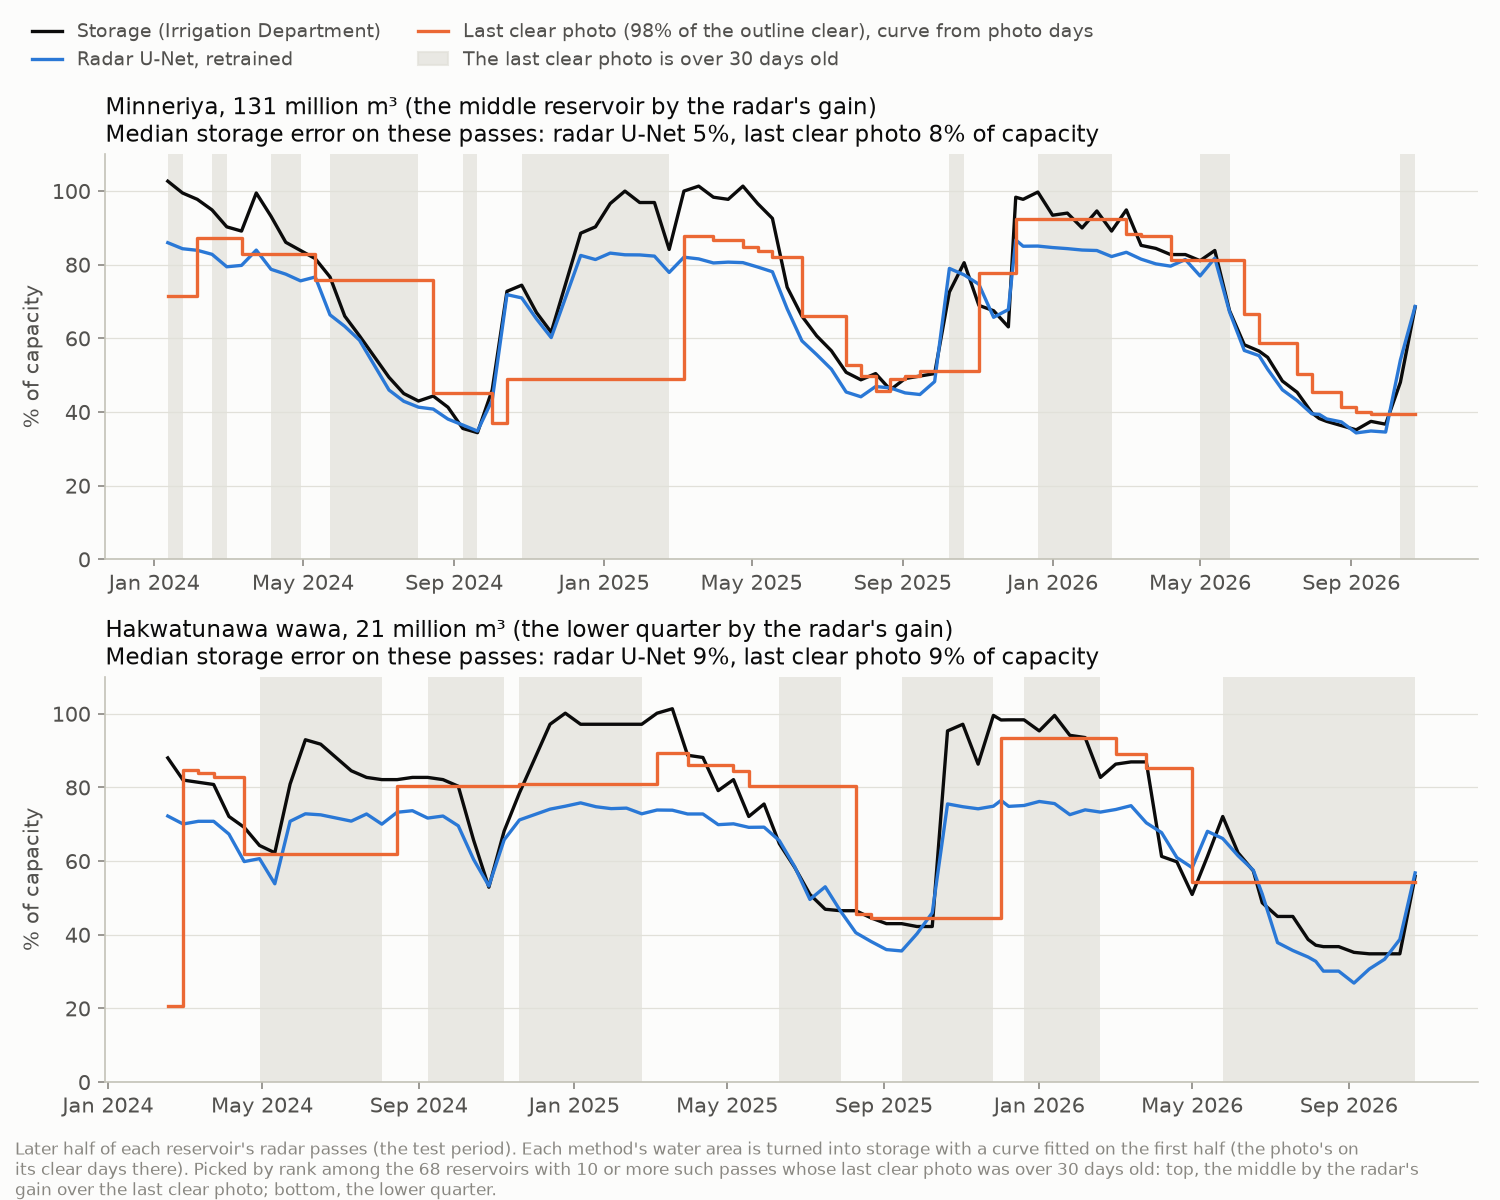
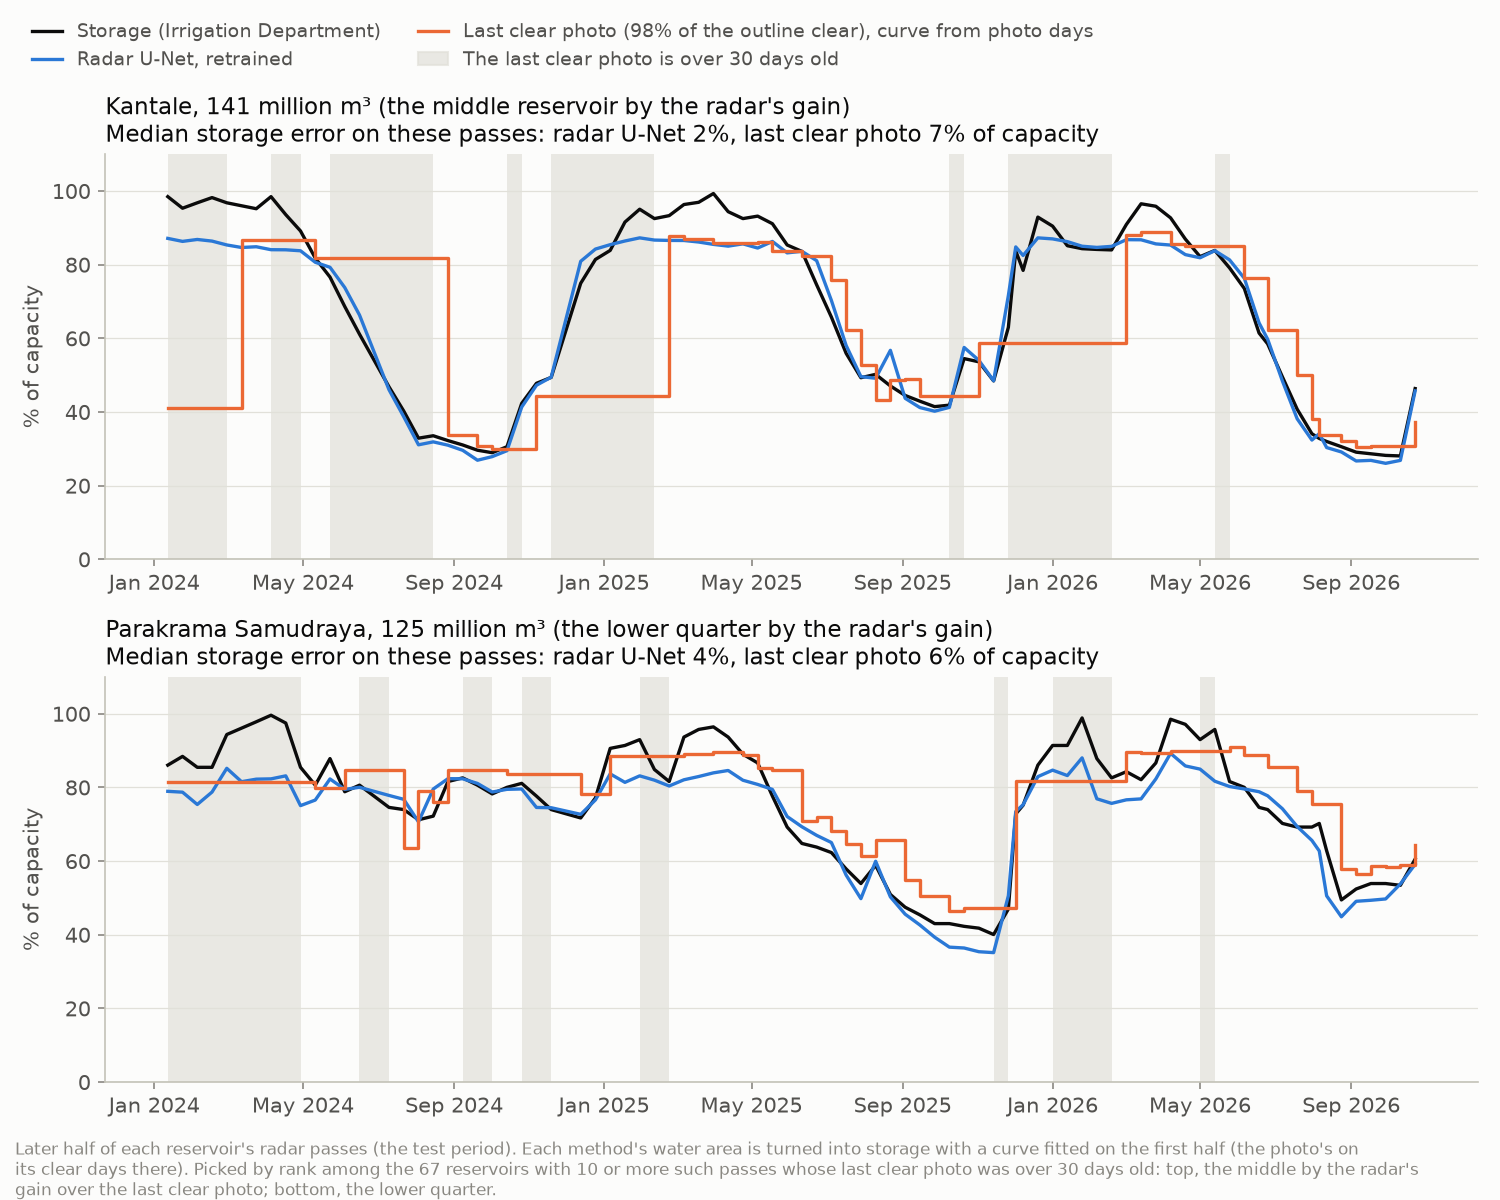
Module A: run 2 results (not a win by its own rules; storage error 7.9% vs 12.5%; the photo-label control is as good); last clear photo comparison with run 2 (#2)

diff --git a/swot-tank-tracker/module-a/README.md b/swot-tank-tracker/module-a/README.md
@@ -71,7 +71,23 @@ The models that use the photo failed under thick cloud.
 
 *Akathimuruppu, held out of training ("run 2" in the picture is the radar U-Net before retraining). In the middle row, at 10% storage, the model before marks most of the dry bed as water, while the retrained model keeps to the pool in the south.*
 
-**Run 2** is the main test, with better labels, three seeds and stricter rules. It is running on Kaggle, and its results will follow.
+**Run 2 (the main test, 103 reservoirs).** Compared with run 1, it has:
+- better labels (more land, and a guard against cloud shadows);
+- folds that keep neighbouring reservoirs together;
+- a cleaned storage sheet;
+- three seeds per fold;
+- a control model trained on photo labels alone.
+
+| Storage error on the later half (median, % of capacity) | Reservoirs | Retrained | Photo-label control | Radar U-Net before | Seasonal average | No model |
+|---|---|---|---|---|---|---|
+| All | 103 | **7.9** | 8.5 | 12.5 | 14.4 | 22.5 |
+| Under 5 million m³ | 39 | 11.0 | 11.5 | 13.7 | 15.2 | 26.1 |
+| 5 to 30 million m³ | 34 | 7.9 | 7.5 | 10.5 | 14.4 | 17.3 |
+| 30 million m³ and more | 30 | 5.4 | 5.2 | 8.8 | 13.3 | 22.7 |
+
+- **Four of its five rules hold.** It is better than the radar U-Net before at 79% of reservoirs (Wilcoxon p = 2e-10), better than every threshold method and the seasonal average, and closer to the photo on the dry lake bed.
+- **The fifth fails, so run 2 is not a win by its own rules.** On Sen1Floods11's Bolivia chips its water IoU fell to 44.8, against 58.6 for the model it started from, and the limit was 2 points. Training on tank labels made the model better at reading tank storage, but worse at mapping flood water.
+- **The labelling rule is not what helps.** The control trained on photo labels alone does as well (8.5%, p = 0.31). The gain comes from training on our own reservoirs.
 
 ## 6. Against the last clear photo (3 Nov)
 
@@ -82,24 +98,29 @@ Without radar, a user would read storage from the most recent clear photo. To te
 **How often there is a clear photo:**
 - a median of 20 a year per reservoir;
 - the longest gap between them is a median of 138 days, and November and December have the fewest;
-- on the later half, the last clear photo is a median of 12 days old, and over 30 days old on 29% of passes.
+- on the later half, the last clear photo is a median of 13 days old, and over 30 days old on 29% of passes.
+
+With run 2 (103 reservoirs):
 
 | Storage error, later half (median, % of capacity) | All passes | Photo 10 days old or less | Photo over 30 days old |
 |---|---|---|---|
-| Retrained radar U-Net (run 1) | **8.8** | **8.0** | **10.4** |
-| Radar U-Net before | 12.1 | 11.2 | 11.2 |
-| Last clear photo | 12.9 | 9.5 | 19.9 |
-| Seasonal average | 14.2 | 14.2 | 13.6 |
-| No model | 21.9 | 22.3 | 21.2 |
+| Retrained radar U-Net (run 2) | **7.9** | 7.9 | 8.4 |
+| Photo-label control | 8.1 | **7.4** | **7.7** |
+| Radar U-Net before | 12.3 | 11.2 | 10.9 |
+| Last clear photo | 12.9 | 9.5 | 19.5 |
+| Seasonal average | 14.2 | 13.7 | 13.6 |
+| No model | 22.5 | 23.0 | 21.2 |
 
-- The retrained model beats the last clear photo at 76% of reservoirs (p = 2e-8), and at 79% when the photo is over 30 days old (p = 9e-10).
-- **A limit:** at small reservoirs (under 5 million m³) with an old photo, the seasonal average (9.6) beats every map.
+- The retrained model beats the last clear photo at 81% of reservoirs (p = 2e-10), and at 86% when the photo is over 30 days old (p = 9e-12). Run 1 showed the same picture (8.8 against 12.9).
+- **A limit:** at small reservoirs (under 5 million m³) with an old photo, the seasonal average (9.6) is still the best.
 
-![Storage, the retrained radar U-Net and the last clear photo at Minneriya and Hakwatunawa wawa](pictures/last-clear-photo-vs-radar.png)
+![Storage, the retrained radar U-Net and the last clear photo at Kantale and Parakrama Samudraya](pictures/last-clear-photo-vs-radar.png)
+
+*The two reservoirs were picked by rank, among those with 10 or more old-photo passes. At Kantale (the middle by the radar's gain), the radar is off by 2% of capacity against 7% for the photo. At Parakrama Samudraya (the lower quarter), it is 4% against 6%.*
 
 ## Next
 
-- Check run 2's results against its rules ([issue #9](https://github.com/jarvis-uom/IS4990-project/issues/9) in the main repo).
+- **Run 3, to keep flood-mapping skill**, with its rules fixed first. Either mix Sen1Floods11's expert-labelled chips into the training, or start from the stronger run 6 model (Bolivia 66).
 - Storage near full, where the radar's reading flattens: add SWOT's water height (Module B).
 - Pixel accuracy on expert-labelled benchmarks (Sen1Floods11, S1S2-Water).
 

diff --git a/swot-tank-tracker/README.md b/swot-tank-tracker/README.md
@@ -67,7 +67,7 @@ Work for the IS4990 project "SWOT Tank Water Tracker for Sri Lanka" (Group 6, JA
 
 **Module A, 1 to 3 November 2026** (`module-a/README.md`):
 - Under cloud, only radar works. At about 100 reservoirs, the radar-only U-Net reads storage within 11 to 12% of capacity, against 20 to 22% with no model.
-- Retrained on our own reservoirs (a trial run), it reads storage within 8.9%, and it beats the last clear photo at 76% of reservoirs.
+- Retrained on our own reservoirs (run 2, 103 reservoirs), it reads storage within 7.9% of capacity, and it beats the last clear photo at 81% of reservoirs. But it lost flood-mapping skill on an outside test, so by our own rules it is not yet a win.
 - Our two reservoir image datasets are public on Kaggle.
 
 ## Not included
